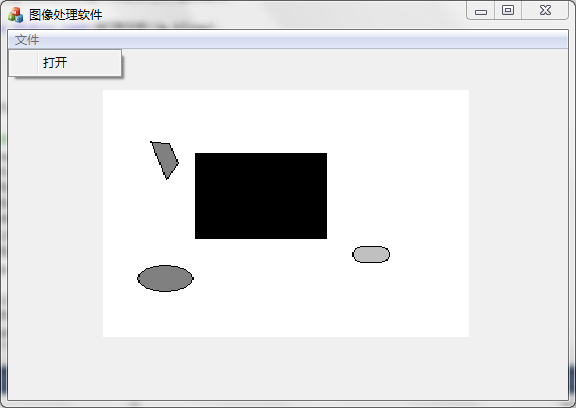
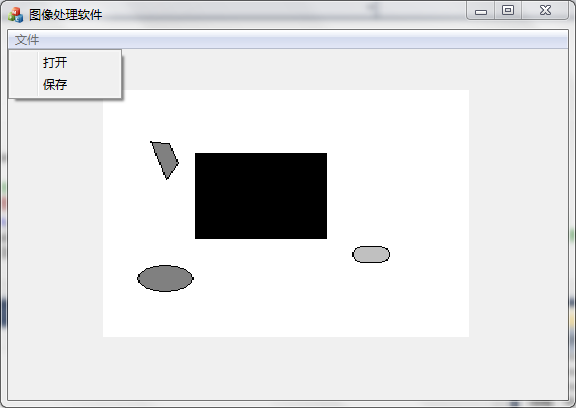
my blog

diff --git a/_posts/2015-05-05-ImgProSort.md b/_posts/2015-05-05-ImgProSort.md
@@ -8,6 +8,8 @@ keywords:  图像处理, 软件, MFC
 
 本项目是在MFC平台上编写C++代码来开发一个集成各种图像处理算法的软件，主要对位图图像进行处理。
 
+
+
 ##### 基于对话框打开读入图片
 
 首先是创建一个基于对话框的应用程序，添加图像控件进行显示图像，图像控件ID为IDC_PICTURE。在工程中创建对位图处理的基本文件，里面声明类ImageDib，集成了对位图结构定义和基本操作，包括图像数据、图像颜色表	、图像的宽(像素为单位)、图像的高(像素为单位)、图像信息头等等。
@@ -50,7 +52,7 @@ class ImageDib
 
 在ImgProSorltDlg.h头文件中添加：#include "ImageDib.h"，同时在类CImgProSorltDlg中声明ImageDib对象m_dib，以后在类CImgProSorltDlg中读入的位图数据就存到对象m_dib中，因此还需要在类CImgProSorltDlg的构造函数中进行初始化：m_dib=new ImageDib();
 
-然后在对话框中创建菜单栏，在菜单栏中添加“打开”按钮。菜单ID为IDR_MENU，给菜单添加事件处理函数，函数名为OnOpenFile()。在函数中添加如下代码：
+然后在对话框中创建菜单栏，菜单栏ID为IDR_MENU，在菜单栏中添加“打开”按钮。给菜单添加事件处理函数，函数名为OnOpenFile()。在函数中添加如下代码：
 
 ```cpp
 void CImgProSorltDlg::OnOpenFile()
@@ -84,6 +86,65 @@ void CImgProSorltDlg::OnOpenFile()
     }
 }
 ```
-运行效果如下：
+
+在菜单栏中添加“保存”按钮。给菜单添加事件处理函数，函数名为OnSaveFile()。在函数中添加如下代码：
+
+```cpp
+void CImgProSorltDlg::OnSaveFile()
+{
+	// TODO: 在此添加命令处理程序代码
+	CString filter = _T("图像 (*.bmp;*.tif;*.jpg)|*.bmp;*.tif;*.jpg|All Files (*.*)|*.*||");
+	CFileDialog fdlg(false,NULL,NULL,OFN_HIDEREADONLY |OFN_OVERWRITEPROMPT,filter);           //文件对话框
+	fdlg.m_ofn.lpstrInitialDir = L"d:\\";                                                     //设置初始目录文件
+	if(fdlg.DoModal() == IDOK)
+	{
+		CString fileName = fdlg.GetPathName();//得到保存文件的路径
+		LPCTSTR lpszPathName;
+		lpszPathName=fileName;           //文件路径CString由转换为LPCTSTR
+		m_dib->Write(lpszPathName);
+	}
+}
+```
+
+如此软件就具备了打开图像和保存图像的功能，运行效果如下(软件的主窗口)：
 
 ![](/images/posts/Projection/1.png)
+
+
+
+#### 图像的几何变换
+
+这一节主要是给软件添加给图片进行几何变换的功能，在主窗口上添加“几何变换”菜单列。编写类GeometryTrans，负责对位图图像进行几何变换处理，该类集成在文件GeometryTrans.cpp和GeometryTrans.h中，因此需要在ImgProSorltDlg.cpp头文件中添加：#include "GeometryTrans.h"。主要添加功能包括：平移、水平镜像、垂直镜像、缩放、旋转(顺时针旋转90度，逆时针旋转90度，旋转180度，任意角度旋转)。在几何变换菜单列中添加相关菜单和事件处理函数。
+
+首先是添加“平移”菜单，然后添加事件处理函数OnMove()。平移操作需要获取水平移动距离和垂直移动距离，我设计在点击平移菜单以后，弹出一个处理框来获取这两个参数，对话框ID为IDD_DLG_MOVE，同时要给对话框添加类GeometryMoveDlg，基类为CDialog。
+
+![](/images/posts/Projection/2.png)
+
+添加水平镜像菜单和事件处理函数OnHorizontalMirror()：
+
+![](/images/posts/Projection/3.png)
+
+添加垂直镜像菜单和事件处理函数OnHorizontalMirror()：
+
+![](/images/posts/Projection/4.png)
+
+添加缩放菜单和事件处理函数OnZoom()，同时需要添加对话框获取水平缩放参数和垂直缩放参数，对话框ID为IDD_DIALOG_ZOOM。
+
+![](/images/posts/Projection/5.png)
+
+添加旋转菜单和各个时间处理函数OnClockwise90(),OnAnticlockwise90(),OnRotate180()OnFreeRotate()，在任意角度时，需要添加对话框获取角度参数，对话框ID为IDD_DIALOG_Rotate。
+
+![](/images/posts/Projection/6.png)
+
+至此，图像处理软件的几何变换部分的功能已经添加完成，运行效果如下：
+
+![](/images/posts/Projection/7.png)
+
+
+#### 图像的灰度变换
+有几何变换以后，开始给软件添加灰度变换部分的功能，主要是图像二值化，图像直方图，直方图均衡化，灰度反转，阈值变换，窗口变换，分段线性拉伸等等。灰度变换处理类是GrayTrans，在文件GrayTrans.cpp和GrayTrans.h。
+
+首先是二值化菜单事件处理函数OnBinary()。
+
+![](/images/posts/Projection/8.png)
+
